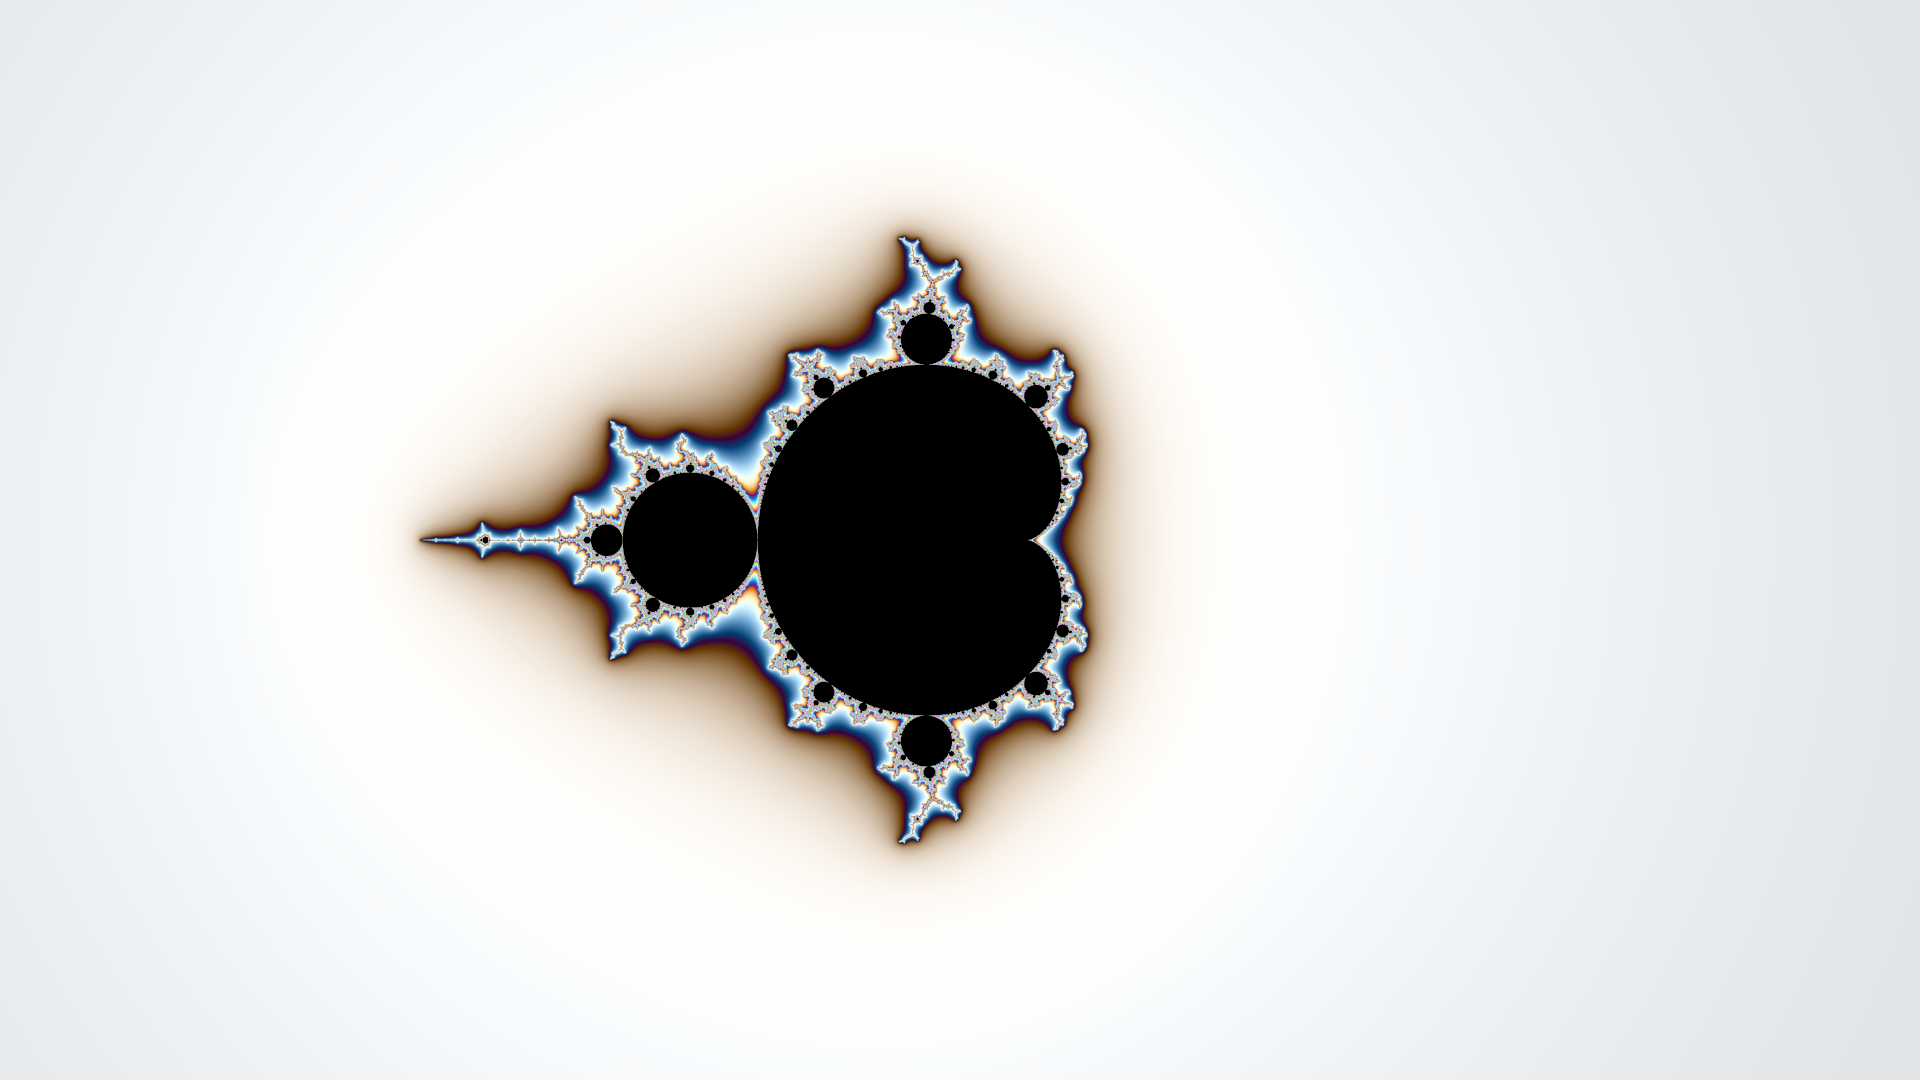
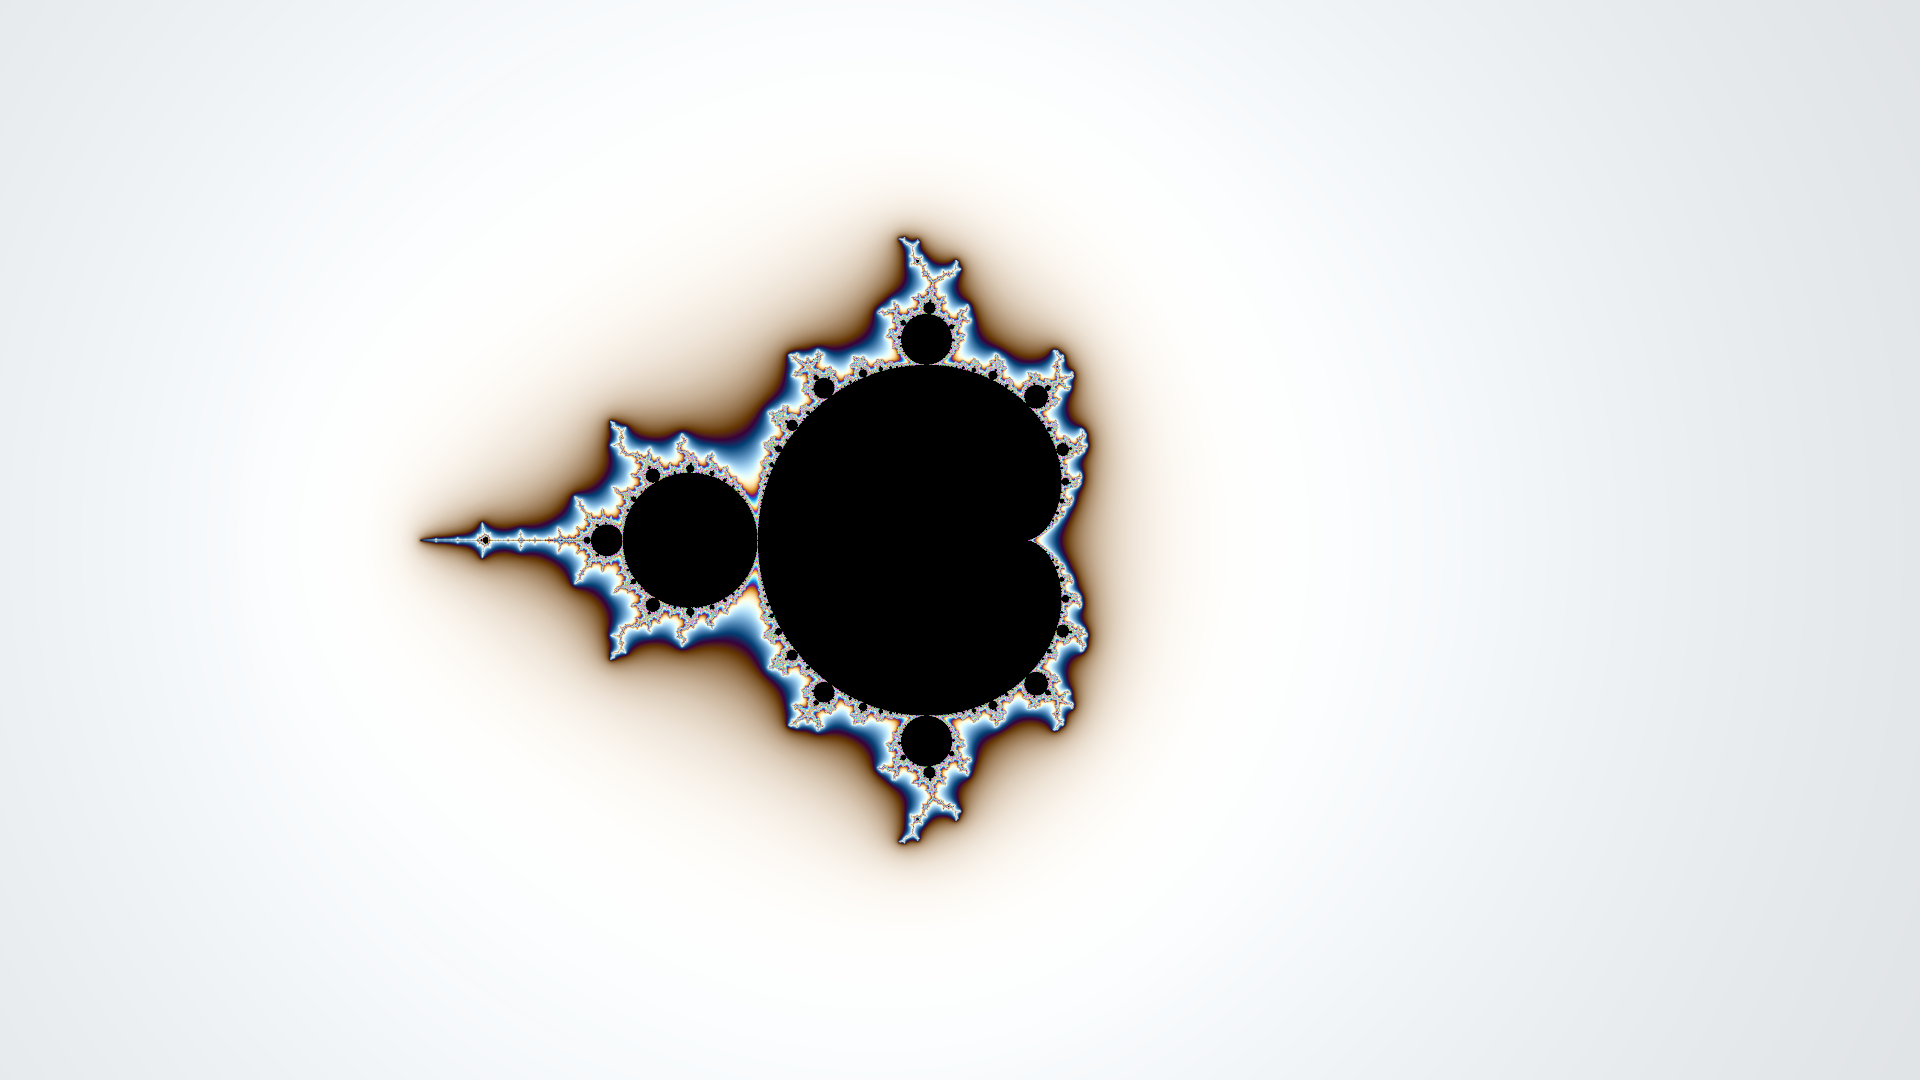
removed unnecessary layer of vectors

diff --git a/src/main.rs b/src/main.rs
@@ -72,7 +72,7 @@ fn main() {
         println!("{}/{}", y, height);
         for x in 0..width {
 
-            let mut sub_pix: Vec<Vec<f64>> = Vec::new();
+            let mut pix_sum: Vec<f64> = vec![0.0, 0.0, 0.0];
             for xaa in 0..aa {
                 for yaa in 0..aa {
                     let aa = aa as f64;
@@ -85,26 +85,15 @@ fn main() {
                     let c = Complex::new(x, y);
                     let escape = calc_at(&c);
 
-                    sub_pix.push(match escape {
-                        None => vec![0.0, 0.0, 0.0],
-                        Some(escape) => vec![
-                            (escape / 2.0 * 1.1).sin() / 2.0 + 0.5,
-                            (escape / 2.0 * 1.2).sin() / 2.0 + 0.5,
-                            (escape / 2.0 * 1.3).sin() / 2.0 + 0.5,
-                        ],
-                    });
+                    if let Some(escape) = escape {
+                        pix_sum[0] += (escape / 2.0 * 1.1).sin() / 2.0 + 0.5;
+                        pix_sum[1] += (escape / 2.0 * 1.2).sin() / 2.0 + 0.5;
+                        pix_sum[2] += (escape / 2.0 * 1.3).sin() / 2.0 + 0.5;
+                    }
                 }
             }
             data.push(
-                sub_pix
-                    .iter()
-                    .fold(vec![0.0, 0.0, 0.0], |acc, x| {
-                        vec![
-                          acc[0] + x[0],
-                          acc[1] + x[1],
-                          acc[2] + x[2],
-                        ]
-                    })
+                pix_sum
                     .iter()
                     .map(|x| { let aa = aa as f64; x / aa / aa })
                     .map(|x| x.powf(1.0/2.2))
